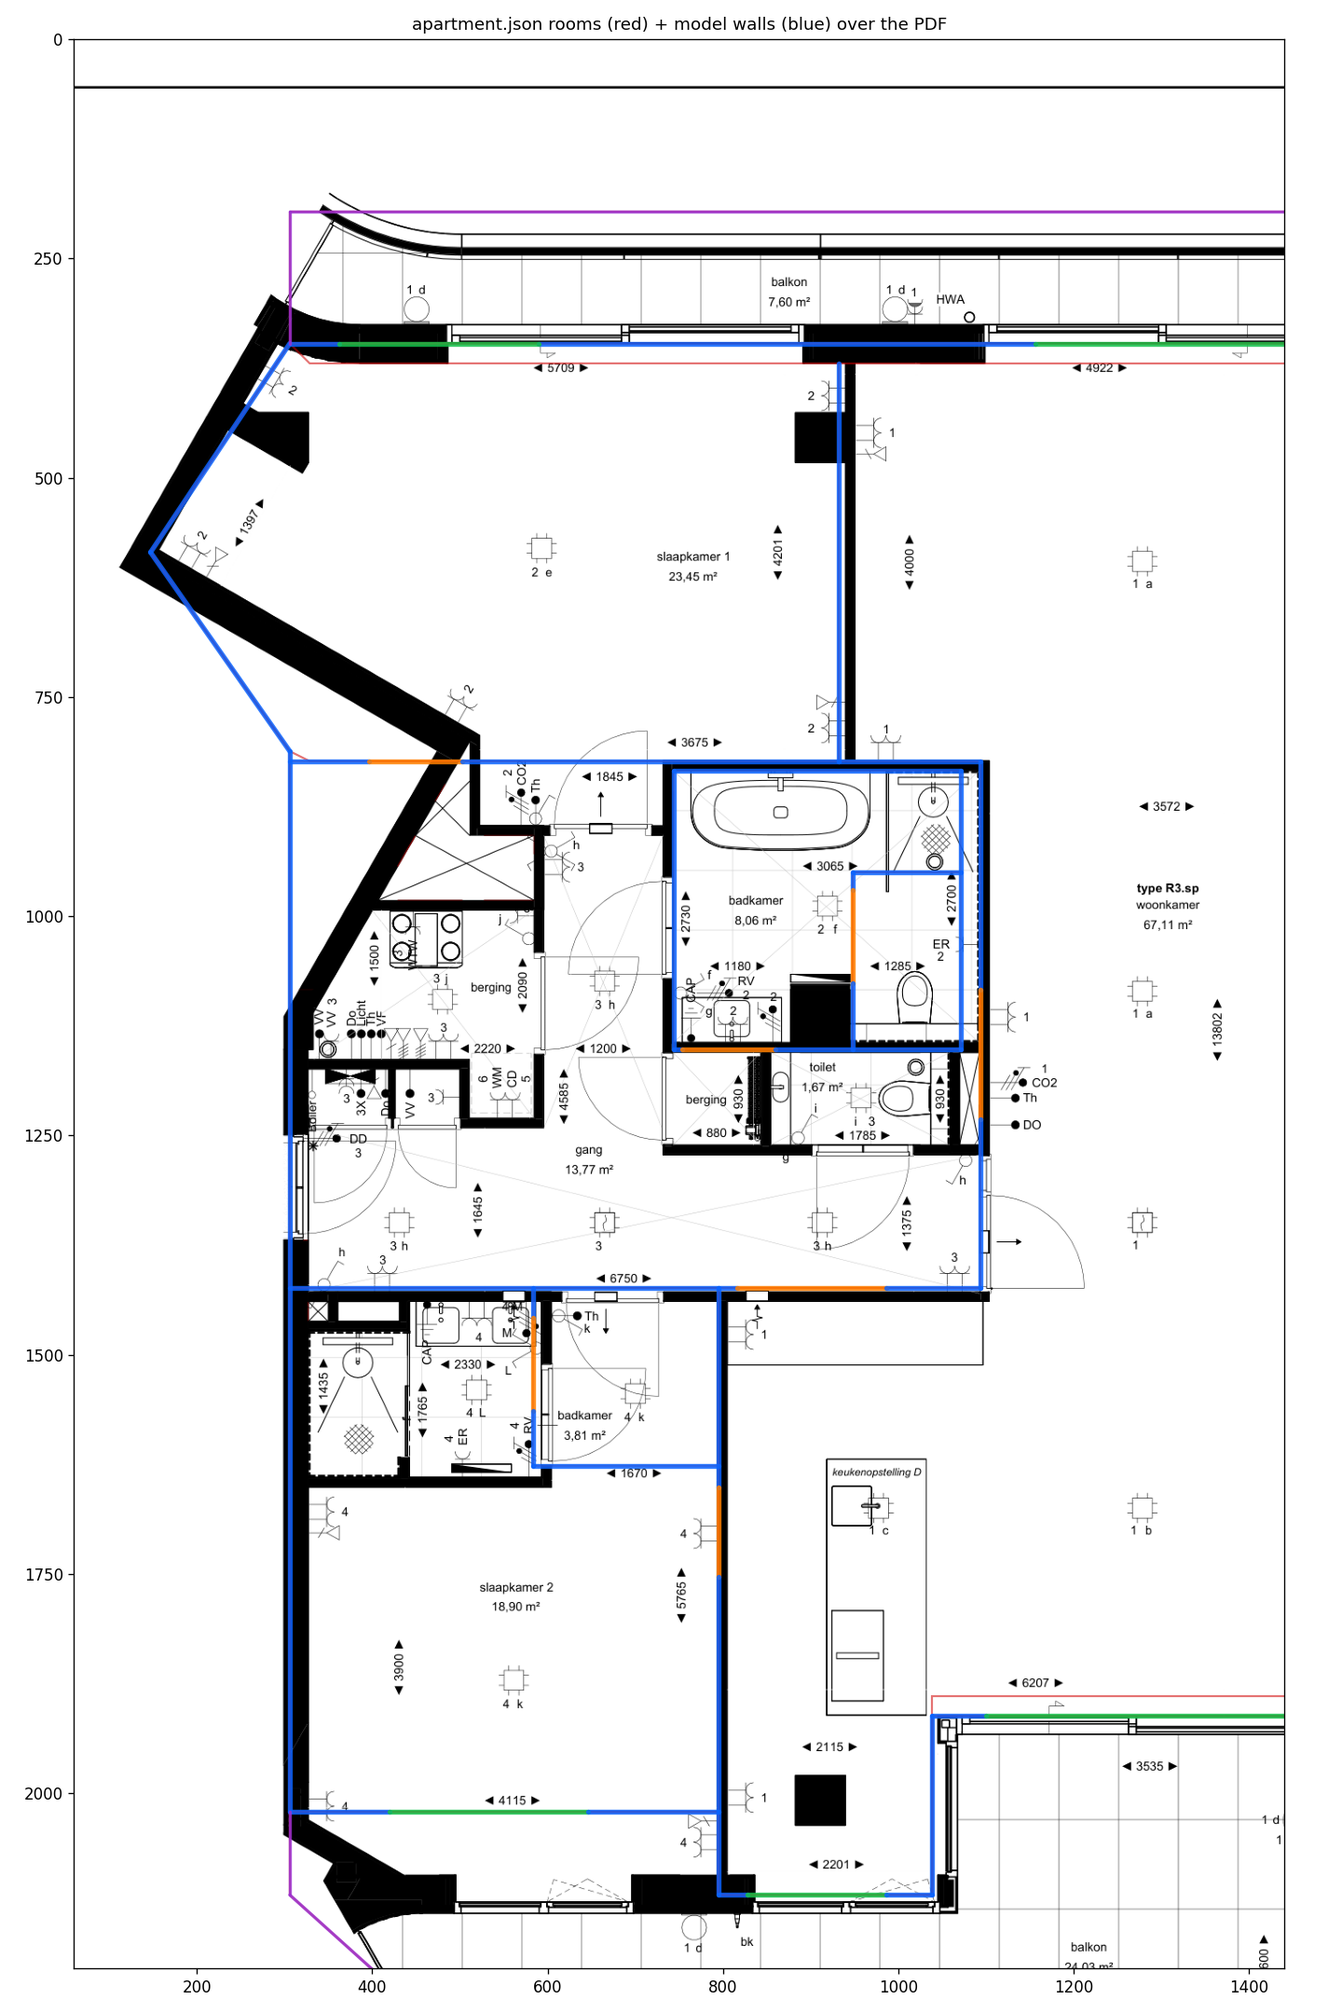
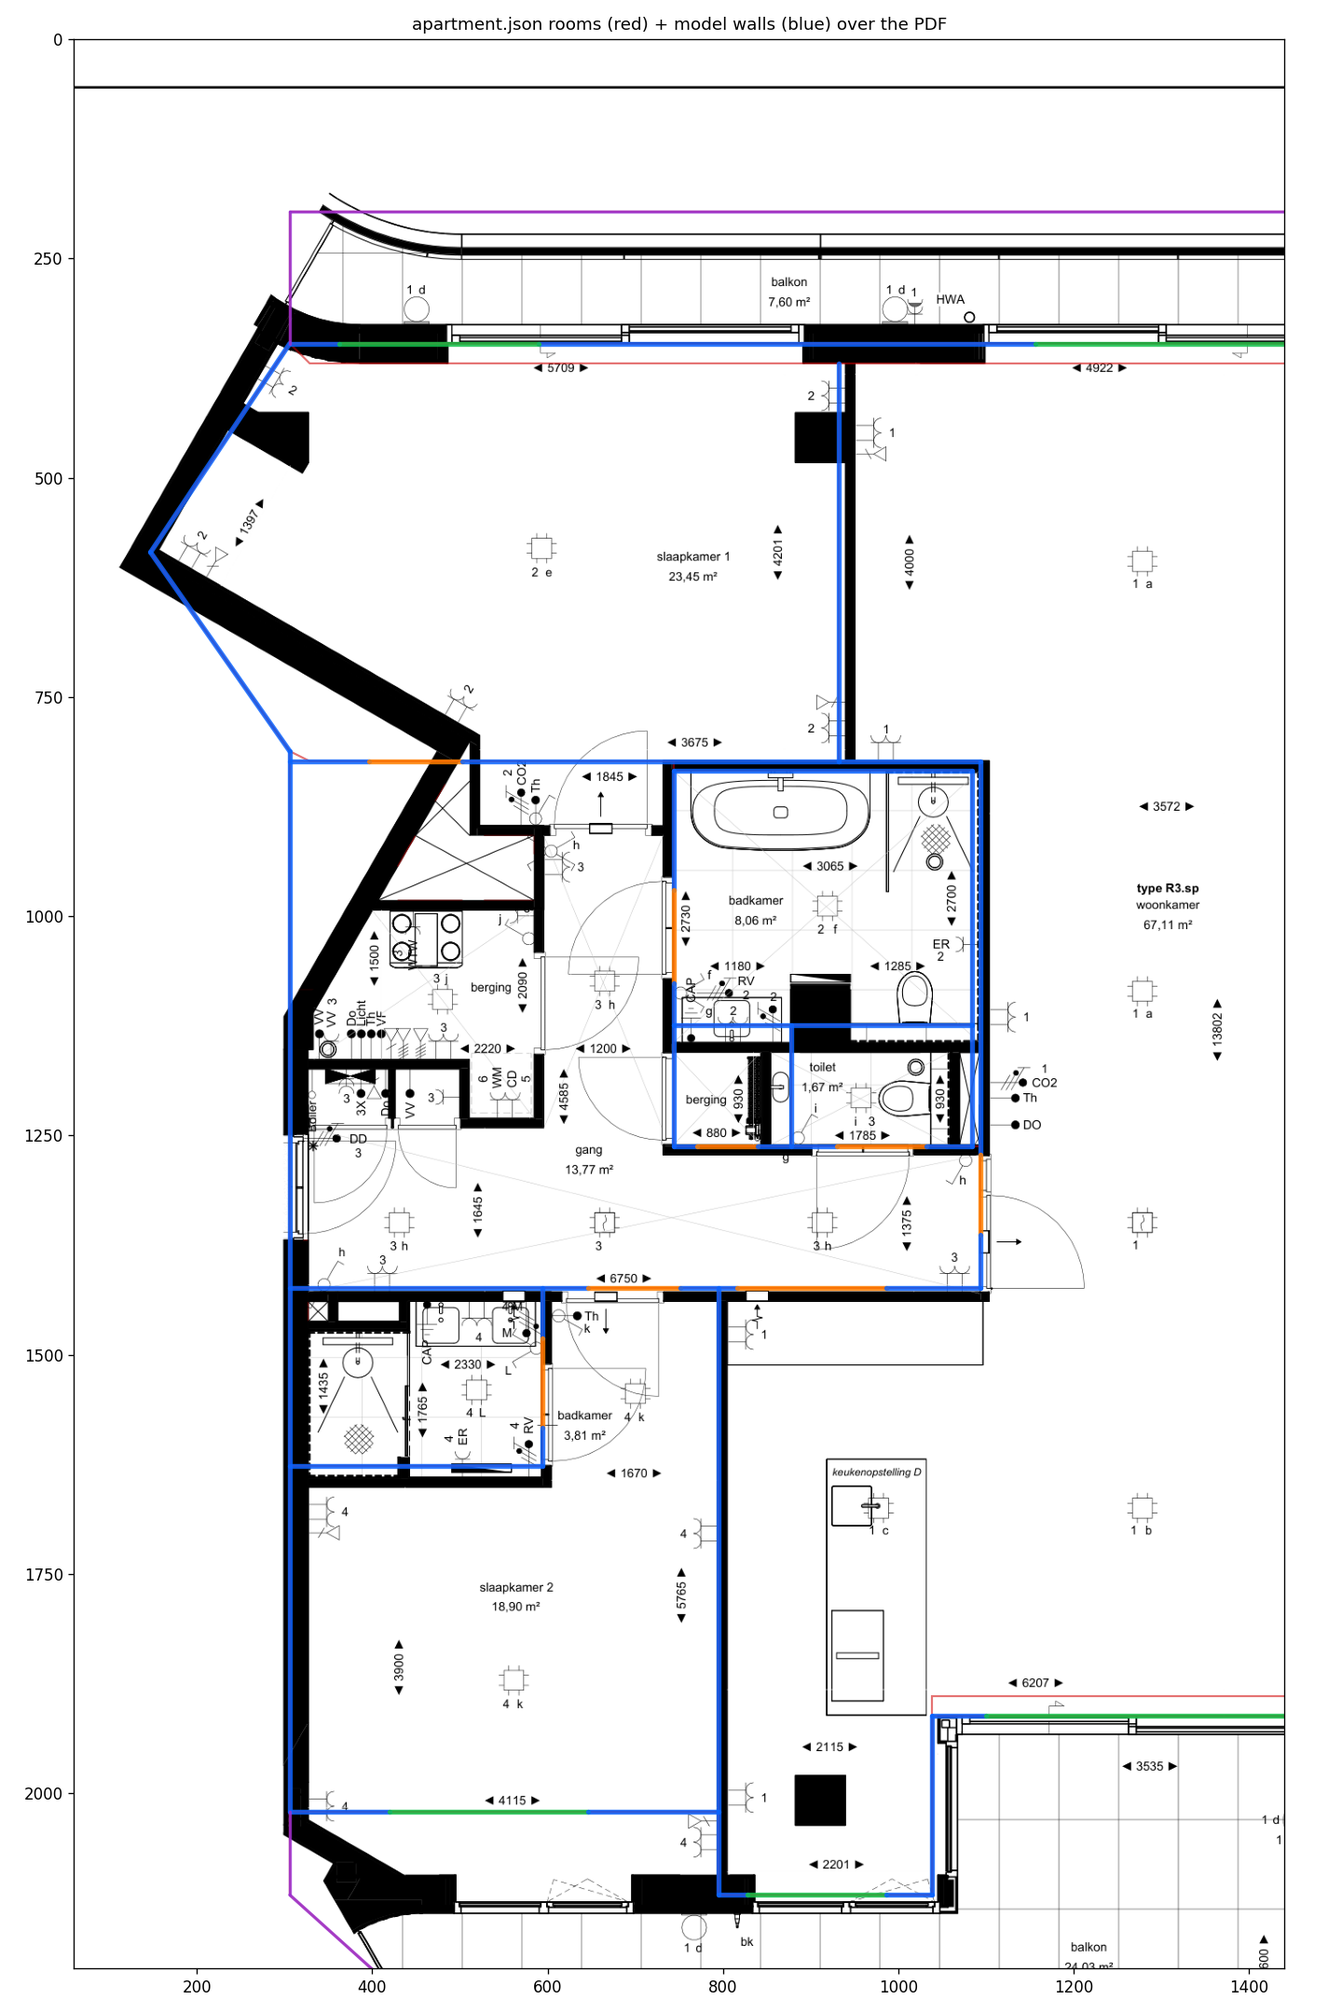
Correct central + slaapk2 interiors, kitchen counter, furniture & eye height (#17)
* Loop iter 1: snap dividing wall to PDF (z9.00→9.50) and slaapk2 east boundary (4.115→4.31)

Both corrections are backed by the PDF's own dimension callouts:
- 6750 mm label sits on the gang/slaapk2 divider at z≈9.48, not z=9.00
- 4115 mm is slaapk2's WIDTH; interior runs x≈0.19..4.31, so the east
  wall/step belongs at x≈4.31 (the model had used the width as a coordinate)

Add tools/compare-to-pdf.py: extracts the PDF's vector wall lines + dimension
labels and ranks model-vs-PDF offsets, so the loop measures instead of eyeballs.
Applied consistently across APARTMENT_GEOM, ROOMS and render-floorplan.py;
regenerated floorplan.svg and pdf-overlay.png.

* Loop iter 2: move badkamer west wall to the real PDF wall (x3.158→3.86)

The model's badkamer west wall at x=3.158 sat inside the berging closet; the
PDF's vector walls put the badkamer at x 3.86..6.748, z 4.30..7.13. Corrected
the block (west wall, north z=4.40→4.30), repositioned the gang door to the
SW per the door-swing arc (x≈3.95..4.88), and moved the toilet partition to
its PDF face (x5.818→5.66). Mirrored in ROOMS and render-floorplan.py;
regenerated svg + overlay.

* Loop iter 3: rebuild NW bay as a chevron to match the PDF facade

The NW corner was an explicit estimate (only the 1397 mm callout was real).
The PDF's vector facade there is two straight diagonal facets meeting at a west
apex, not a vertical-faced zigzag. The 1397 callout is the apex's horizontal
[…]

diff --git a/index.html b/index.html
@@ -216,7 +216,7 @@ import * as THREE from 'three';
 /* ===== CONSTANTS ===== */
 const WALL_HEIGHT = 2.80;
 const WALL_THICK = 0.20;
-const PLAYER_H = 1.6;
+const PLAYER_H = 1.70;   // eye height for a 1.80 m-tall person (~0.10 m below the crown)
 const PLAYER_R = 0.32;
 const MOVE_SPEED = 3.0;
 const LOOK_SPEED = 0.003;
@@ -280,45 +280,50 @@ const APARTMENT_GEOM = [
   // corner to the woonkamer west wall, separating the living-room north strip
   // from the gang/bathroom (PDF: solid wall at z~4.3, x 5.52->6.948).
   { kind: 'wall',    x1:  5.52, z1:  4.20,  x2:  6.948, z2:  4.20 },
-  // --- Bathroom block (PDF vector walls: west x≈3.86, north z≈4.30, south
-  //     z≈7.13). Old west wall x=3.158 sat inside the berging closet; the real
-  //     badkamer west wall is x≈3.86. Gang door on the south wall at the SW,
-  //     per the door-swing arc at x≈3.95..4.88.
-  { kind: 'wall',    x1:  3.86,  z1: 4.30,  x2:  6.748, z2: 4.30 },
-  { kind: 'wall',    x1:  3.86,  z1: 4.30,  x2:  3.86,  z2: 7.10 },
-  { kind: 'wall',    x1:  6.748, z1: 4.30,  x2:  6.748, z2: 7.10 },
-  { kind: 'wall',    x1:  3.86,  z1: 7.10,  x2:  3.95,  z2: 7.10 },
-  { kind: 'door',    x1:  3.95,  z1: 7.10,  x2:  4.88,  z2: 7.10 },
-  { kind: 'wall',    x1:  4.88,  z1: 7.10,  x2:  6.748, z2: 7.10 },
-  // --- Toilet partition (inside bathroom SE corner) — west face at x≈5.66
-  //     (PDF), door on west wall at z∈[5.50, 6.43]
-  { kind: 'wall',    x1:  5.66,  z1: 5.315, x2:  6.748, z2: 5.315 },
-  { kind: 'wall',    x1:  5.66,  z1: 5.315, x2:  5.66,  z2: 5.50 },
-  { kind: 'door',    x1:  5.66,  z1: 5.50,  x2:  5.66,  z2: 6.43 },
-  { kind: 'wall',    x1:  5.66,  z1: 6.43,  x2:  5.66,  z2: 7.10 },
-  // --- Slaapk2 north wall (z=9, shared with gang); en-suite is in the NE corner.
-  { kind: 'wall',    x1:  0.00,  z1: 9.50,  x2:  4.31, z2: 9.50 },
-  // --- Kitchen/living-room north wall (z=9) with the wide opening from the gang
-  //     (your "door to the living room", x~4.5-6.0).
-  { kind: 'wall',    x1:  4.31, z1: 9.50,  x2:  4.50,  z2: 9.50 },
-  { kind: 'door',    x1:  4.50,  z1: 9.50,  x2:  6.00,  z2: 9.50 },
+  // --- Central block (PDF layout, north→south): BADKAMER (large) on top, then
+  //     a [BERGING | TOILET] band, then the GANG. The block's east wall (x≈6.86)
+  //     is hard against the living-room west wall (x=6.948) — no door there.
+  //     Badkamer x 3.86..6.86, z 4.30..6.85 (bathtub + shower). Door from the
+  //     gang's west arm on the west wall.
+  { kind: 'wall',    x1:  3.86,  z1: 4.30,  x2:  6.86,  z2: 4.30 },  // badkamer north
+  { kind: 'wall',    x1:  3.86,  z1: 4.30,  x2:  3.86,  z2: 5.50 },  // badkamer west (N of door)
+  { kind: 'door',    x1:  3.86,  z1: 5.50,  x2:  3.86,  z2: 6.43 },  // badkamer door (from gang)
+  { kind: 'wall',    x1:  3.86,  z1: 6.43,  x2:  3.86,  z2: 6.85 },  // badkamer west (S of door)
+  { kind: 'wall',    x1:  6.86,  z1: 4.30,  x2:  6.86,  z2: 6.85 },  // badkamer east (vs living room)
+  { kind: 'wall',    x1:  3.86,  z1: 6.85,  x2:  6.86,  z2: 6.85 },  // badkamer south
+  // --- Berging (SW) + Toilet (SE), the band SOUTH of the badkamer (z 6.85..8.07).
+  { kind: 'wall',    x1:  5.04,  z1: 6.85,  x2:  5.04,  z2: 8.07 },  // berging/toilet divider
+  { kind: 'wall',    x1:  6.86,  z1: 6.85,  x2:  6.86,  z2: 8.07 },  // toilet east (vs living room)
+  { kind: 'wall',    x1:  3.86,  z1: 6.85,  x2:  3.86,  z2: 8.07 },  // berging west (vs gang arm)
+  // south wall of the band, with a berging door and a toilet door into the gang
+  { kind: 'wall',    x1:  3.86,  z1: 8.07,  x2:  4.10,  z2: 8.07 },
+  { kind: 'door',    x1:  4.10,  z1: 8.07,  x2:  4.70,  z2: 8.07 },  // berging door (from gang)
+  { kind: 'wall',    x1:  4.70,  z1: 8.07,  x2:  5.50,  z2: 8.07 },
+  { kind: 'door',    x1:  5.50,  z1: 8.07,  x2:  6.40,  z2: 8.07 },  // toilet door (from gang)
+  { kind: 'wall',    x1:  6.40,  z1: 8.07,  x2:  6.86,  z2: 8.07 },
+  // --- Dividing wall (gang ↔ slaapk2 / kitchen) at z=9.50. Gang→slaapk2 door
+  //     into the slaapk2 entry hallway (east side), plus the gang→kitchen opening.
+  { kind: 'wall',    x1:  0.00,  z1: 9.50,  x2:  3.00, z2: 9.50 },
+  { kind: 'door',    x1:  3.00,  z1: 9.50,  x2:  3.93, z2: 9.50 },  // gang → slaapk2 hallway
+  { kind: 'wall',    x1:  3.93,  z1: 9.50,  x2:  4.50, z2: 9.50 },
+  { kind: 'door',    x1:  4.50,  z1: 9.50,  x2:  6.00,  z2: 9.50 },  // gang → kitchen
   { kind: 'wall',    x1:  6.00,  z1: 9.50,  x2:  6.948, z2: 9.50 },
-  // --- Slaapk2 east wall (slaapk2 <-> living room), z 9..14.765. Door to the
-  //     living room at z 11.5..12.4, right beside the en-suite so the bathroom
-  //     partly blocks it (as you described).
-  { kind: 'wall',    x1:  4.31, z1: 9.50,   x2:  4.31, z2: 11.50 },
-  { kind: 'door',    x1:  4.31, z1: 11.50,  x2:  4.31, z2: 12.40 },
-  { kind: 'wall',    x1:  4.31, z1: 12.40,  x2:  4.31, z2: 14.765 },
-  // --- Badkamer klein (en-suite) — NE corner of slaapk2, x∈[2.445,4.31] z∈[9,11.29];
-  //     door from the bedroom on its west wall at z∈[9.80,10.73].
-  { kind: 'wall',    x1:  2.445, z1:  9.50,  x2:  2.445, z2:  9.80 },
-  { kind: 'door',    x1:  2.445, z1:  9.80,  x2:  2.445, z2: 10.73 },
-  { kind: 'wall',    x1:  2.445, z1: 10.73,  x2:  2.445, z2: 11.29 },
-  { kind: 'wall',    x1:  2.445, z1: 11.29,  x2:  4.31, z2: 11.29 },
-  // --- Woonkamer west wall — open passage to gang at z∈[6.50, 7.80]
-  { kind: 'wall',    x1:  6.948, z1: 4.20,  x2:  6.948, z2: 6.50 },
-  { kind: 'door',    x1:  6.948, z1: 6.50,  x2:  6.948, z2: 7.80 },
-  { kind: 'wall',    x1:  6.948, z1: 7.80,  x2:  6.948, z2: 9.50 },
+  // --- Slaapk2 east wall (slaapk2 <-> living room), z 9.50..14.765 — SOLID
+  //     (no door between slaapk2 and the living room).
+  { kind: 'wall',    x1:  4.31, z1: 9.50,   x2:  4.31, z2: 14.765 },
+  // --- Badkamer klein (slaapk2 en-suite) — WEST side, x 0..2.54, z 9.50..11.29.
+  //     (The east strip x 2.54..4.31 is the entry hallway from the gang door.)
+  //     Bathroom door is on its east wall, opening from the hallway.
+  { kind: 'wall',    x1:  2.54,  z1:  9.50,  x2:  2.54,  z2: 10.00 },
+  { kind: 'door',    x1:  2.54,  z1: 10.00,  x2:  2.54,  z2: 10.90 },
+  { kind: 'wall',    x1:  2.54,  z1: 10.90,  x2:  2.54,  z2: 11.29 },
+  { kind: 'wall',    x1:  0.00,  z1: 11.29,  x2:  2.54,  z2: 11.29 },
+  // --- Woonkamer west wall. SOLID from the slaapk1 divider down past the
+  //     badkamer/toilet (they're attached to the living room); the gang→living
+  //     door is SOUTH of the toilet, in the gang (z≈8.16..8.96).
+  { kind: 'wall',    x1:  6.948, z1: 4.20,  x2:  6.948, z2: 8.16 },
+  { kind: 'door',    x1:  6.948, z1: 8.16,  x2:  6.948, z2: 8.96 },  // gang → living room
+  { kind: 'wall',    x1:  6.948, z1: 8.96,  x2:  6.948, z2: 9.50 },
 
   // --- Top balkon railings
   { kind: 'railing', x1:  0.00,  z1: -1.331, x2: 10.72, z2: -1.331 }, // outer (N)
@@ -340,23 +345,23 @@ const APARTMENT_GEOM = [
  * "which room am I in" lookup prefers the smaller space. */
 const ROOMS = [
   { id: 'toilet',    name: 'Toilet',            kind: 'tegel', rects: [
-      { x1: 5.66, z1: 5.315, x2: 6.748, z2: 7.10 } ] },
+      { x1: 5.04, z1: 6.85, x2: 6.86, z2: 8.07 } ] },
+  { id: 'berging',   name: 'Berging',           kind: 'tegel', rects: [
+      { x1: 3.86, z1: 6.85, x2: 5.04, z2: 8.07 } ] },
   { id: 'badkklein', name: 'Badkamer (klein)',  kind: 'tegel', rects: [
-      { x1: 2.445, z1: 9.50, x2: 4.31, z2: 11.29 } ] },
+      { x1: 0.00, z1: 9.50, x2: 2.54, z2: 11.29 } ] },
   { id: 'badkamer',  name: 'Badkamer',          kind: 'tegel', rects: [
-      { x1: 3.86, z1: 4.30,  x2: 6.748, z2: 5.315 },
-      { x1: 3.86, z1: 5.315, x2: 5.66, z2: 7.10 } ] },
+      { x1: 3.86, z1: 4.30, x2: 6.86, z2: 6.85 } ] },
   { id: 'slaapk1',   name: 'Slaapkamer 1',      kind: 'hout',  rects: [
       { x1: 0.00,  z1: 0.20,  x2: 5.52,  z2: 4.20 },
       { x1: -0.75, z1: 1.20,  x2: 0.00,  z2: 3.00 } ] },
   { id: 'slaapk2',   name: 'Slaapkamer 2',      kind: 'hout',  rects: [
-      { x1: 0.00,  z1: 9.50,  x2: 2.445, z2: 14.765 },
-      { x1: 2.445, z1: 11.29, x2: 4.31, z2: 14.765 } ] },
+      { x1: 0.00,  z1: 11.29, x2: 4.31, z2: 14.765 },
+      { x1: 2.54,  z1: 9.50,  x2: 4.31, z2: 11.29 } ] },
   { id: 'gang',      name: 'Gang',              kind: 'hout',  rects: [
       { x1: 0.00, z1: 4.20,  x2: 6.948, z2: 4.40 },
-      { x1: 0.00, z1: 4.40,  x2: 3.86, z2: 7.10 },
-      { x1: 0.00, z1: 7.10,  x2: 6.948, z2: 9.50 },
-      { x1: 6.748, z1: 4.40,  x2: 6.948, z2: 7.10 } ] },
+      { x1: 0.00, z1: 4.40,  x2: 3.86,  z2: 9.50 },
+      { x1: 3.86, z1: 8.07,  x2: 6.948, z2: 9.50 } ] },
   { id: 'woonkamer', name: 'Woonkamer',         kind: 'hout',  rects: [
       { x1: 5.52,  z1: 0.20,  x2: 10.52, z2: 4.20 },
       { x1: 6.948, z1: 4.20,  x2: 10.52, z2: 9.50 },
@@ -1697,25 +1702,26 @@ function placeFurniture() {
   // Wardrobe along south wall, east of the gang door (door at x=0.80–1.73)
   addWardrobe(3.50, 3.95, Math.PI, 2.00, 0.55);
 
-  // === Badkamer (groot) — bath on north, sink on west
-  // Bathtub centered along north wall (z=4.40), 1.65 wide × 0.75 deep
-  addBathtub(4.70, 4.80, 0, 1.65, 0.75);
-  // Sink along west wall (x=3.158, facing east)
-  addSink(3.45, 5.70, Math.PI / 2, 0.55);
+  // === Badkamer (groot) — x 3.86..6.86, z 4.30..6.85. Bath on north, sink on east.
+  // Bathtub centered along the north wall (z=4.30), 1.65 wide × 0.75 deep
+  addBathtub(4.80, 4.85, 0, 1.65, 0.75);
+  // Sink along the east wall (x=6.86, facing west)
+  addSink(6.55, 5.40, -Math.PI / 2, 0.55);
 
-  // === Toilet (inside badkamer SE: x∈[5.818, 6.748], z∈[5.315, 7.10])
-  addToiletBowl(6.28, 6.50, Math.PI);
+  // === Toilet — separate room SOUTH of the badkamer (x 5.04..6.86, z 6.85..8.07)
+  addToiletBowl(5.95, 7.55, Math.PI);
 
-  // === Slaapkamer 2 (x∈[0, 4.31], z∈[9.50, 14.77]); en-suite in the NE corner
-  // Double bed against the west wall, head pointing west
+  // === Slaapkamer 2 (x 0..4.31, z 9.50..14.77); en-suite bathroom on the WEST
+  // Double bed against the west wall in the south part, head pointing west
   addBed(1.10, 13.10, Math.PI / 2, 2.00, 1.60);
   // Wardrobe along the south wall (facing north)
-  addWardrobe(1.30, 14.40, Math.PI, 1.50, 0.55);
+  addWardrobe(2.80, 14.40, Math.PI, 1.50, 0.55);
 
-  // === Badkamer klein (en-suite, NE of slaapk2, x∈[2.445, 4.31], z∈[9.50, 11.29])
-  addShowerStall(2.90, 9.50, 0, 0.90, 0.90);
-  addSink(3.70, 10.00, Math.PI / 2, 0.50);
-  addToiletBowl(3.10, 10.90, Math.PI);
+  // === Badkamer klein (slaapk2 en-suite) on the WEST: x 0..2.54, z 9.50..11.29.
+  // Shower on the far west, sink + toilet to its east.
+  addShowerStall(0.70, 10.30, 0, 0.90, 0.90);
+  addSink(1.60, 9.85, Math.PI, 0.50);
+  addToiletBowl(2.10, 10.95, Math.PI / 2);
 
   // === Woonkamer (L-shape) ===
   // Sofa along east wall facing west, in the north strip
@@ -1726,8 +1732,9 @@ function placeFurniture() {
   // Dining table in the east strip near woonkamer/gang boundary
   addDiningTable(8.50, 7.00);
 
-  // Kitchen island in the south extension (left side of bottom of L)
-  addKitchenIsland(3.50, 11.00, 0, 2.115, 0.70);
+  // Kitchen counter ("keukenopstelling D") — a north–south peninsula on the
+  // east side of the kitchen column (x 4.31..6.46), with cooktop + sink, per PDF.
+  addKitchenIsland(6.10, 12.40, Math.PI / 2, 2.50, 0.65);
 
   // Side console along the woonkamer north wall (under the balkon door)
   const console_ = new THREE.Mesh(new THREE.BoxGeometry(1.4, 0.85, 0.4), CABINET_MAT);

diff --git a/tools/render-floorplan.py b/tools/render-floorplan.py
@@ -157,47 +157,50 @@ def rooms():
     R.append({"name": "woonkamer", "label": "67,11 m²", "fill": "#e8f4ff",
               "polygon": w, "centroid": (8.6, 5.5)})
 
-    # Gang — fills the entire central strip between slaapk1 (north) and
-    # slaapk2 (south), from west facade to woonkamer west wall. The
-    # bathroom block (drawn after gang) overlays in the middle so the
-    # gang appears C-shaped wrapping around the bathrooms.
+    # Gang — C-shape wrapping the central block (badkamer/berging/toilet at
+    # x 3.86..6.86, z 4.30..7.95): west arm + a south arm that reaches the
+    # living-room west wall (x=6.948), where the gang→living door is.
     g = [(0.00, 4.20),    # NW: meets slaapk1 south wall at the west facade
-         (6.948, 4.20),   # east along slaapk1 south wall to woonkamer west wall
-         (6.948, 9.50),   # south along woonkamer west wall to slaapk2 north
-         (0.00, 9.50),    # west along slaapk2 north wall to the west facade
+         (3.86, 4.20),    # east to the central block's west wall
+         (3.86, 8.07),    # south down the block's west wall
+         (6.948, 8.07),   # east along the block's south wall to the living-room wall
+         (6.948, 9.50),   # south to the slaapk2 dividing wall
+         (0.00, 9.50),    # west along the dividing wall to the facade
         ]
     R.append({"name": "gang", "label": "13,77 m²", "fill": "#fcf6e3",
-              "polygon": g, "centroid": (1.80, 7.50)})
+              "polygon": g, "centroid": (1.80, 6.50)})
 
-    # Bathroom block: x=3.158–6.748, y=4.40–7.10 (3.59 × 2.70 = 9.69 m²).
-    # East wall (x=6.748) is the shared wall with woonkamer (whose
-    # interior west wall is at x=6.948 — 0.20 m thick partition).
-    # Toilet sits INSIDE the block at the SE corner (user-confirmed).
-    # Badkamer is the L-shape that remains (≈ 8.03 m² ≈ label 8.06).
-    b1 = [(3.86, 4.30),   # NW (west wall at x≈3.86 per PDF vectors)
-          (6.748, 4.30),  # NE
-          (6.748, 5.315), # east wall continues down to toilet NE corner
-          (5.66, 5.315),  # west along toilet north wall
-          (5.66, 7.10),   # south along toilet west wall
-          (3.86, 7.10)]   # west along bathroom south wall
+    # Badkamer (large) — north room of the central block, x 3.86..6.86,
+    # z 4.30..6.85 (bathtub + shower). East wall is hard against the living
+    # room (x=6.948); there is no door on that side.
+    b1 = [(3.86, 4.30), (6.86, 4.30), (6.86, 6.85), (3.86, 6.85)]
     R.append({"name": "badkamer", "label": "8,06 m²", "fill": "#eaf6ec",
-              "polygon": b1, "centroid": (4.65, 5.70)})
+              "polygon": b1, "centroid": (5.30, 5.40)})
 
-    # Toilet inside badkamer at right-bottom (SE) corner — user-confirmed.
-    # 0.93 × 1.785 → 1.66 m² ≈ 1.67. East wall adjacent to woonkamer.
-    t = [(5.66, 5.315), (6.748, 5.315), (6.748, 7.10), (5.66, 7.10)]
+    # Toilet — SEPARATE room SOUTH of the badkamer (SE), x 5.04..6.86,
+    # z 6.85..8.07, entered from the gang. East wall against the living room.
+    t = [(5.04, 6.85), (6.86, 6.85), (6.86, 8.07), (5.04, 8.07)]
     R.append({"name": "toilet", "label": "1,67 m²", "fill": "#eef0f4",
-              "polygon": t, "centroid": (6.28, 6.21)})
+              "polygon": t, "centroid": (5.95, 7.46)})
 
-    # slaapkamer 2 — 4.115 × 4.593, SW area
-    s2 = [(0.00, 9.50), (4.31, 9.50), (4.31, 14.765), (0.00, 14.765)]
+    # Berging — storage closet south of the badkamer (SW), beside the toilet.
+    bg = [(3.86, 6.85), (5.04, 6.85), (5.04, 8.07), (3.86, 8.07)]
+    R.append({"name": "berging", "label": "1,67 m²", "fill": "#f0eee6",
+              "polygon": bg, "centroid": (4.45, 7.46)})
+
+    # slaapkamer 2 — L-shape bedroom. En-suite bathroom is in the WEST (NW
+    # corner); the east strip (x 2.54..4.31, z 9.50..11.29) is the entry
+    # hallway from the gang door.
+    s2 = [(0.00, 11.29), (2.54, 11.29), (2.54, 9.50), (4.31, 9.50),
+          (4.31, 14.765), (0.00, 14.765)]
     R.append({"name": "slaapkamer 2", "label": "18,90 m²", "fill": "#fff4e6",
-              "polygon": s2, "centroid": (1.60, 13.00)})
+              "polygon": s2, "centroid": (1.30, 13.00)})
 
-    # badkamer (klein) — en-suite in slaapk2's NE corner (by the living-room door)
-    bk = [(2.445, 9.50), (4.31, 9.50), (4.31, 11.29), (2.445, 11.29)]
+    # badkamer (klein) — slaapk2 en-suite on the WEST side (NW corner),
+    # x 0..2.54, z 9.50..11.29 (shower on the far west + sink).
+    bk = [(0.00, 9.50), (2.54, 9.50), (2.54, 11.29), (0.00, 11.29)]
     R.append({"name": "badkamer (klein)", "label": "3,81 m²", "fill": "#eaf6ec",
-              "polygon": bk, "centroid": (3.28, 10.10)})
+              "polygon": bk, "centroid": (1.27, 10.40)})
 
     # balkon (top) — spans FULL apartment top facade width (user-confirmed)
     bt = [(0.00, -1.331), (10.72, -1.331), (10.72, 0.0), (0.00, 0.0)]
